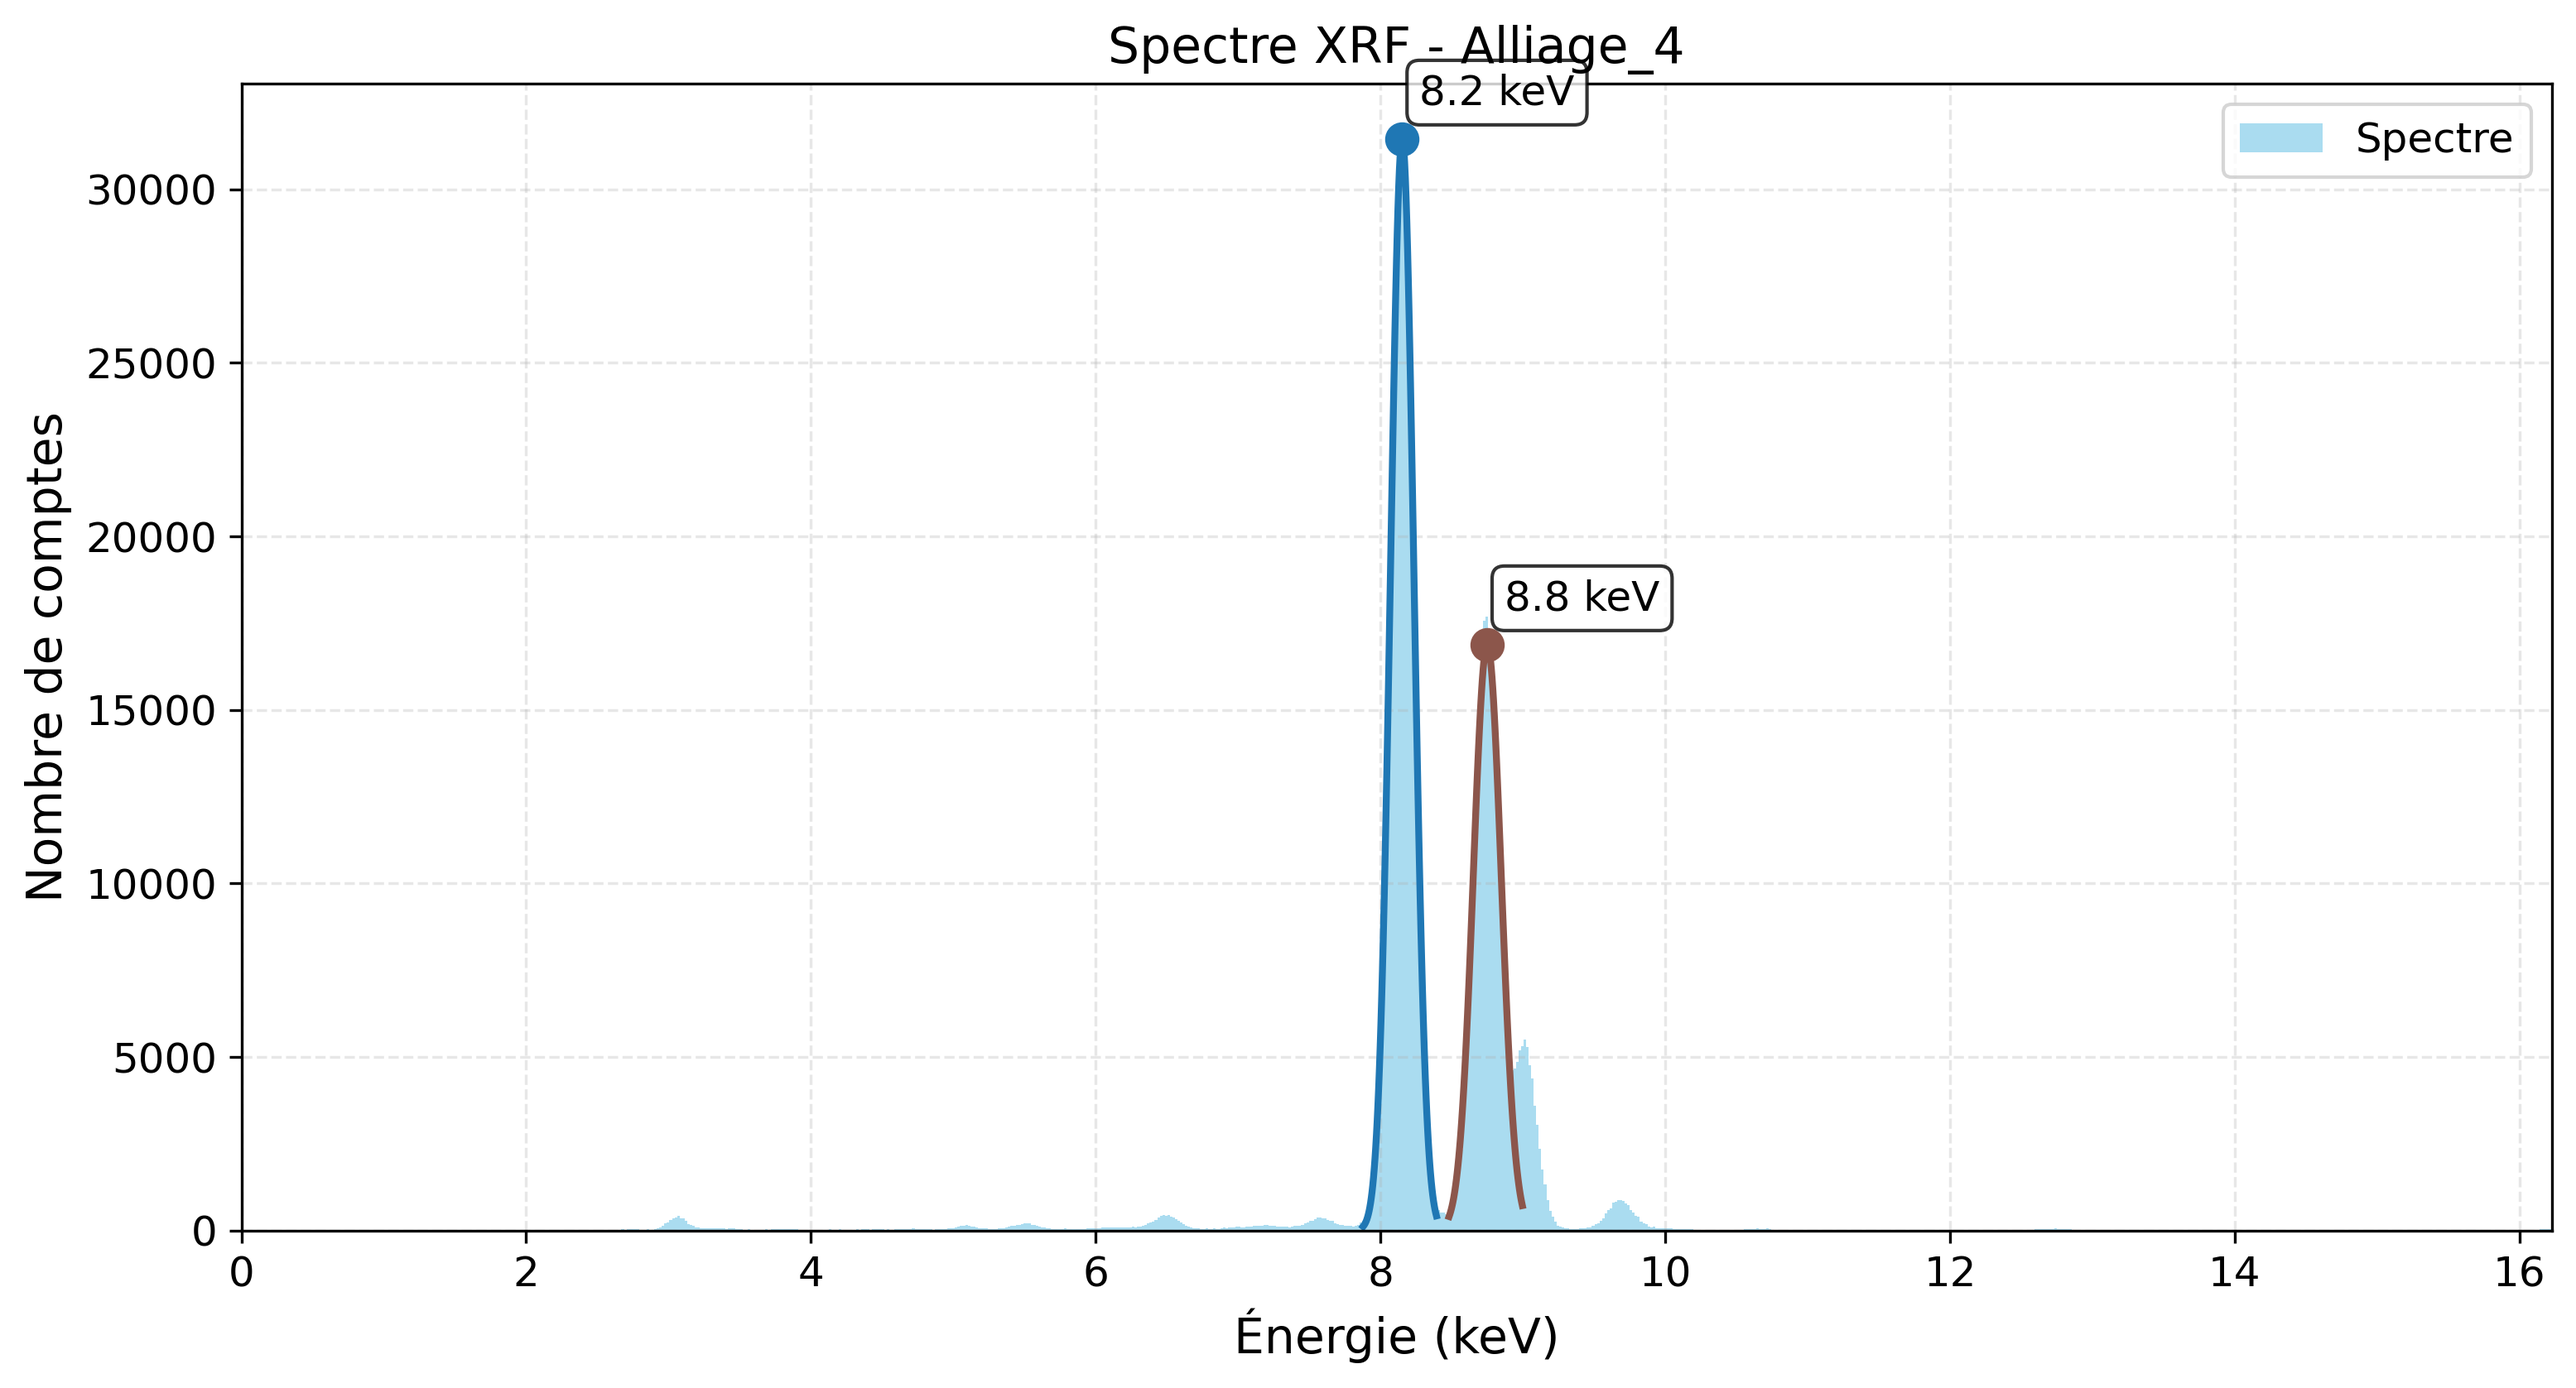
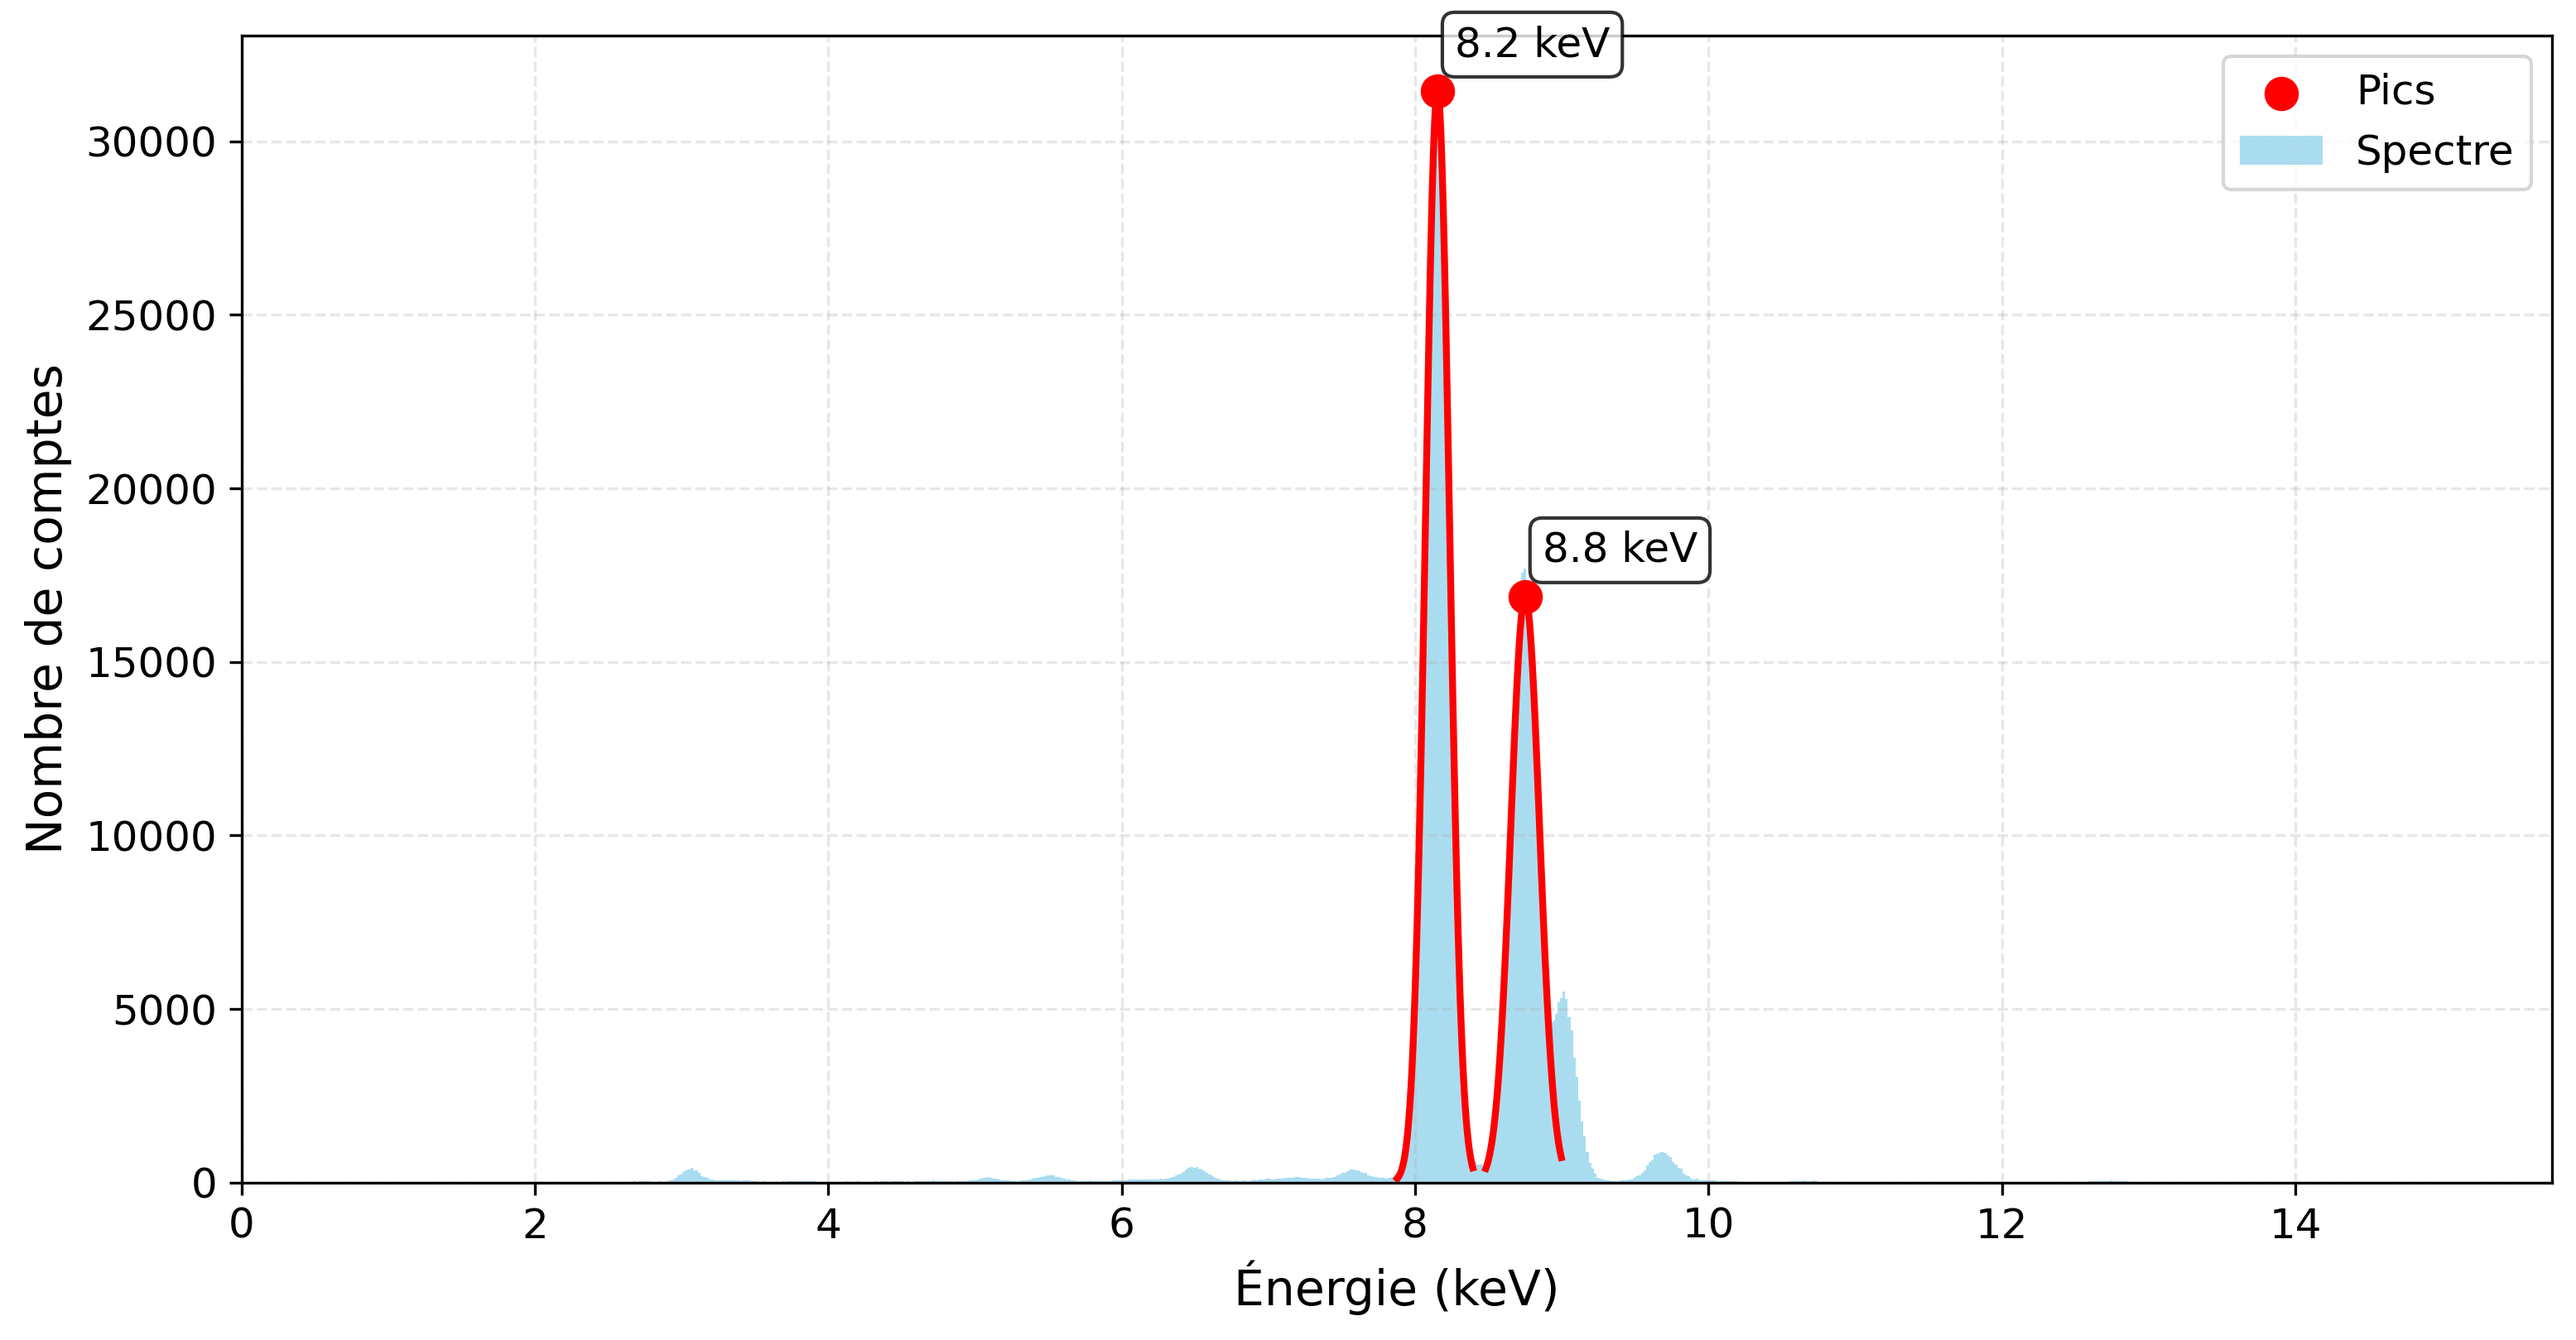
graphs_améliorés

diff --git a/Code_Fluo/find_peaks.py b/Code_Fluo/find_peaks.py
@@ -22,8 +22,8 @@ plt.rcParams.update({
 })
 
 # Chemin du fichier MCA (à adapter)
-mca_file = r"Fluo\Fluo_clé_00101_30kv_200uA.mca"
-alloy_name = "clé_00101"
+mca_file = r"Fluo\Fluo_alliage_6_30kv_200uA.mca"
+alloy_name = "Alliage_6"
 
 # Création du dossier de résultats
 results_dir = f"Results_fluo\Results_{alloy_name}"
@@ -38,9 +38,9 @@ energies = np.load("energie_fluo.npy")
 # Détection des pics (paramètres ajustables)
 peaks, properties = find_peaks(counts, 
                              height=0.1*max(counts),
-                             prominence=0.1*max(counts),
+                             prominence=0.01*max(counts),
                              distance=15,
-                             width=3)
+                             width=5)
 
 # Fonction gaussienne pour l'ajustement
 def gaussian(x, A, mu, sigma):
@@ -80,8 +80,12 @@ for i, (peak, color) in enumerate(zip(peaks, colors)):
         
         # Tracé du fit
         x_plot = np.linspace(x_fit.min(), x_fit.max(), 100)
-        ax.plot(x_plot, gaussian(x_plot, *popt), '-', color=color, linewidth=2)
-        ax.scatter(popt[1], gaussian(popt[1], *popt), color=color, s=80, zorder=5)
+        ax.plot(x_plot, gaussian(x_plot, *popt), '-', color='r', linewidth=2)
+        if i == 0:
+            ax.scatter(popt[1], gaussian(popt[1], *popt), color='r', s=80, zorder=5, label = 'Pics')
+        else:
+            ax.scatter(popt[1], gaussian(popt[1], *popt), color='r', s=80, zorder=5)
+
         
         # Annotation
         ax.annotate(f'{popt[1]:.1f} keV', 
@@ -96,7 +100,7 @@ for i, (peak, color) in enumerate(zip(peaks, colors)):
 # Finalisation du graphique
 ax.set_xlabel('Énergie (keV)')
 ax.set_ylabel('Nombre de comptes')
-ax.set_title(f"Spectre XRF - {alloy_name}")
+# ax.set_title(f"Spectre XRF - {alloy_name}")
 ax.grid(True, linestyle='--', alpha=0.3)
 ax.legend()
 ax.set_xlim(left=0, right=1.8*energies[peaks[-1]])
